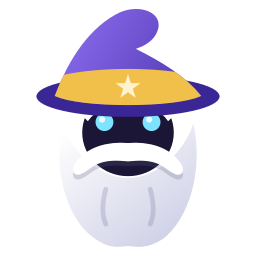
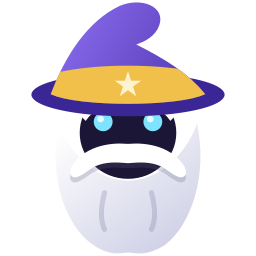
update
fix linux rounded corners graphics glitch

diff --git a/merlin/tabs.py b/merlin/tabs.py
@@ -20,7 +20,9 @@ from PyQt6.QtCore import (
     QEasingCurve, QPropertyAnimation, QSize, QTimer, Qt, pyqtProperty,
     pyqtSignal,
 )
-from PyQt6.QtCore import QPoint, QRect, QRectF
+import time
+
+from PyQt6.QtCore import QEvent, QPoint, QRect, QRectF
 from PyQt6.QtGui import (
     QColor, QCursor, QIcon, QPainter, QPainterPath, QRegion,
 )
@@ -109,6 +111,10 @@ class PlusButton(QToolButton):
 # ------------------------------------------------------------- horizontal
 # How far a tab has to be dragged clear of its strip before it is pulled out
 # into a window of its own.
+# How long the panel stays open after a touch, since a finger leaving the
+# screen is not the same as a pointer leaving the widget.
+TOUCH_HOLD = 3.0
+
 DETACH_DISTANCE = 70
 
 
@@ -444,6 +450,13 @@ class VerticalTabStrip(QWidget):
         # the last tab: the strip stayed open until the pointer was most of the
         # way into the page. Polling is simpler and more reliable here than
         # tracking mouse events across a scroll area and its children.
+        # Touch never moves a pointer, so hovering cannot open the strip and
+        # the pointer polling below has nothing to follow. Touches are taken
+        # directly instead, and hold the panel open for a while afterwards
+        # since there is no "leave" to wait for.
+        self.setAttribute(Qt.WidgetAttribute.WA_AcceptTouchEvents, True)
+        self._touch_until = 0.0
+
         self._leaving = 0
         self._watch = QTimer(self)
         self._watch.setInterval(70)
@@ -511,6 +524,27 @@ class VerticalTabStrip(QWidget):
         self._watch.stop()
         super().leaveEvent(event)
 
+    def event(self, event):
+        """Open on touch, and keep it open while touching continues."""
+        kind = event.type()
+        if kind in (QEvent.Type.TouchBegin, QEvent.Type.TouchUpdate):
+            self.touched()
+            event.accept()
+            return True
+        if kind == QEvent.Type.TouchEnd:
+            # leave it open briefly so a tab can be picked
+            self._touch_until = time.monotonic() + TOUCH_HOLD
+            event.accept()
+            return True
+        return super().event(event)
+
+    def touched(self) -> None:
+        self._touch_until = time.monotonic() + TOUCH_HOLD
+        self._leaving = 0
+        self._animate_to(1.0)
+        if not self._watch.isActive():
+            self._watch.start()
+
     def _pointer_holds_open(self) -> bool:
         """Open while the pointer is anywhere on the panel.
 
@@ -519,6 +553,8 @@ class VerticalTabStrip(QWidget):
         pointer. The whole panel is the target now, and it closes when the
         pointer leaves it.
         """
+        if time.monotonic() < self._touch_until:
+            return True
         return self.rect().contains(self.mapFromGlobal(QCursor.pos()))
 
     def _check_pointer(self) -> None:

diff --git a/merlin/settings.py b/merlin/settings.py
@@ -75,6 +75,20 @@ DEFAULT_FILTER_LISTS = [
     "https://secure.fanboy.co.nz/fanboy-annoyance.txt",
 ]
 
+def _compositing_is_likely() -> bool:
+    """Is a compositor certain to be running?
+
+    Not a probe: this is read before any window exists. Windows composites
+    always, Wayland composites by definition, X11 is a maybe and so treated as
+    a no. The setting is there to turn it on when it does work.
+    """
+    if os.name == "nt":
+        return True
+    if os.environ.get("WAYLAND_DISPLAY"):
+        return True
+    return os.environ.get("XDG_SESSION_TYPE", "").lower() == "wayland"
+
+
 DEFAULTS = {
     # --- window / chrome ---
     "hide_window_decorations": False,
@@ -82,7 +96,12 @@ DEFAULTS = {
     "remember_window_geometry": True,
     "tab_orientation": "horizontal",   # horizontal | left | right
     "page_corner_radius": 10,
-    "smooth_corners": True,            # antialiased corners via an overlay          # 0 turns the rounded page corners off
+    # Antialiased corners are drawn by a translucent overlay window, which
+    # needs a compositing manager to blend it. Windows always has one, and so
+    # does Wayland by definition. A plain X11 session may not, and without one
+    # the overlay shows the desktop through itself, so it is off there unless
+    # asked for.
+    "smooth_corners": _compositing_is_likely(),          # 0 turns the rounded page corners off
     "start_background": "midnight",    # see ui.START_BACKGROUNDS, or image:<path>
     "start_tiles": [
         {"title": "Wikipedia", "url": "https://wikipedia.org"},

diff --git a/merlin/ui.py b/merlin/ui.py
@@ -693,7 +693,10 @@ class SettingsDialog(QDialog):
         layout.addWidget(self._check(
             "Smooth the page corners", "smooth_corners",
             "Covers the corners with an antialiased overlay instead of cutting "
-            "them with a mask, which cannot be antialiased and looks stepped."))
+            "them with a mask, which cannot be antialiased and looks stepped. "
+            "The overlay needs a compositing manager: without one it shows the "
+            "desktop through itself, so turn this off if the corners look "
+            "wrong."))
 
         bg_row = QHBoxLayout()
         bg_row.addWidget(QLabel("New tab background", page))

diff --git a/tests/test_startup_paths.py b/tests/test_startup_paths.py
@@ -171,6 +171,12 @@ import re as _re
 
 root = os.path.join(os.path.dirname(os.path.abspath(__file__)), "..")
 
+# version.txt is maintained separately and must never be shipped: a stale one
+# would override the real version wherever this is unpacked.
+check("version.txt is not shipped",
+      not os.path.exists(os.path.join(
+          os.path.dirname(os.path.abspath(__file__)), "..", "version.txt")))
+
 # --- batch quoting hazards --------------------------------------------------
 # A PowerShell call with \" escapes inside a for /f broke install.bat twice:
 # cmd has no backslash escape, so the quotes ended the string early and the

diff --git a/tools/make-logo.py b/tools/make-logo.py
@@ -37,7 +37,10 @@ def mirror(path, axis):
 # about the middle of the canvas, which keeps the top and bottom margins equal.
 # 30/27.35 would touch both edges exactly; the rest is clearance.
 ART_SHIFT_Y = 1.05
-FILL_SCALE = 1.09
+# Measured, not guessed: 1.15 leaves 2px clear top and bottom at 256, which is
+# as large as the wizard goes without the hat's point or the beard touching the
+# edge. Anything above this clips, which is why the number is not rounder.
+FILL_SCALE = 1.15
 
 
 def render(size, compact=False):
